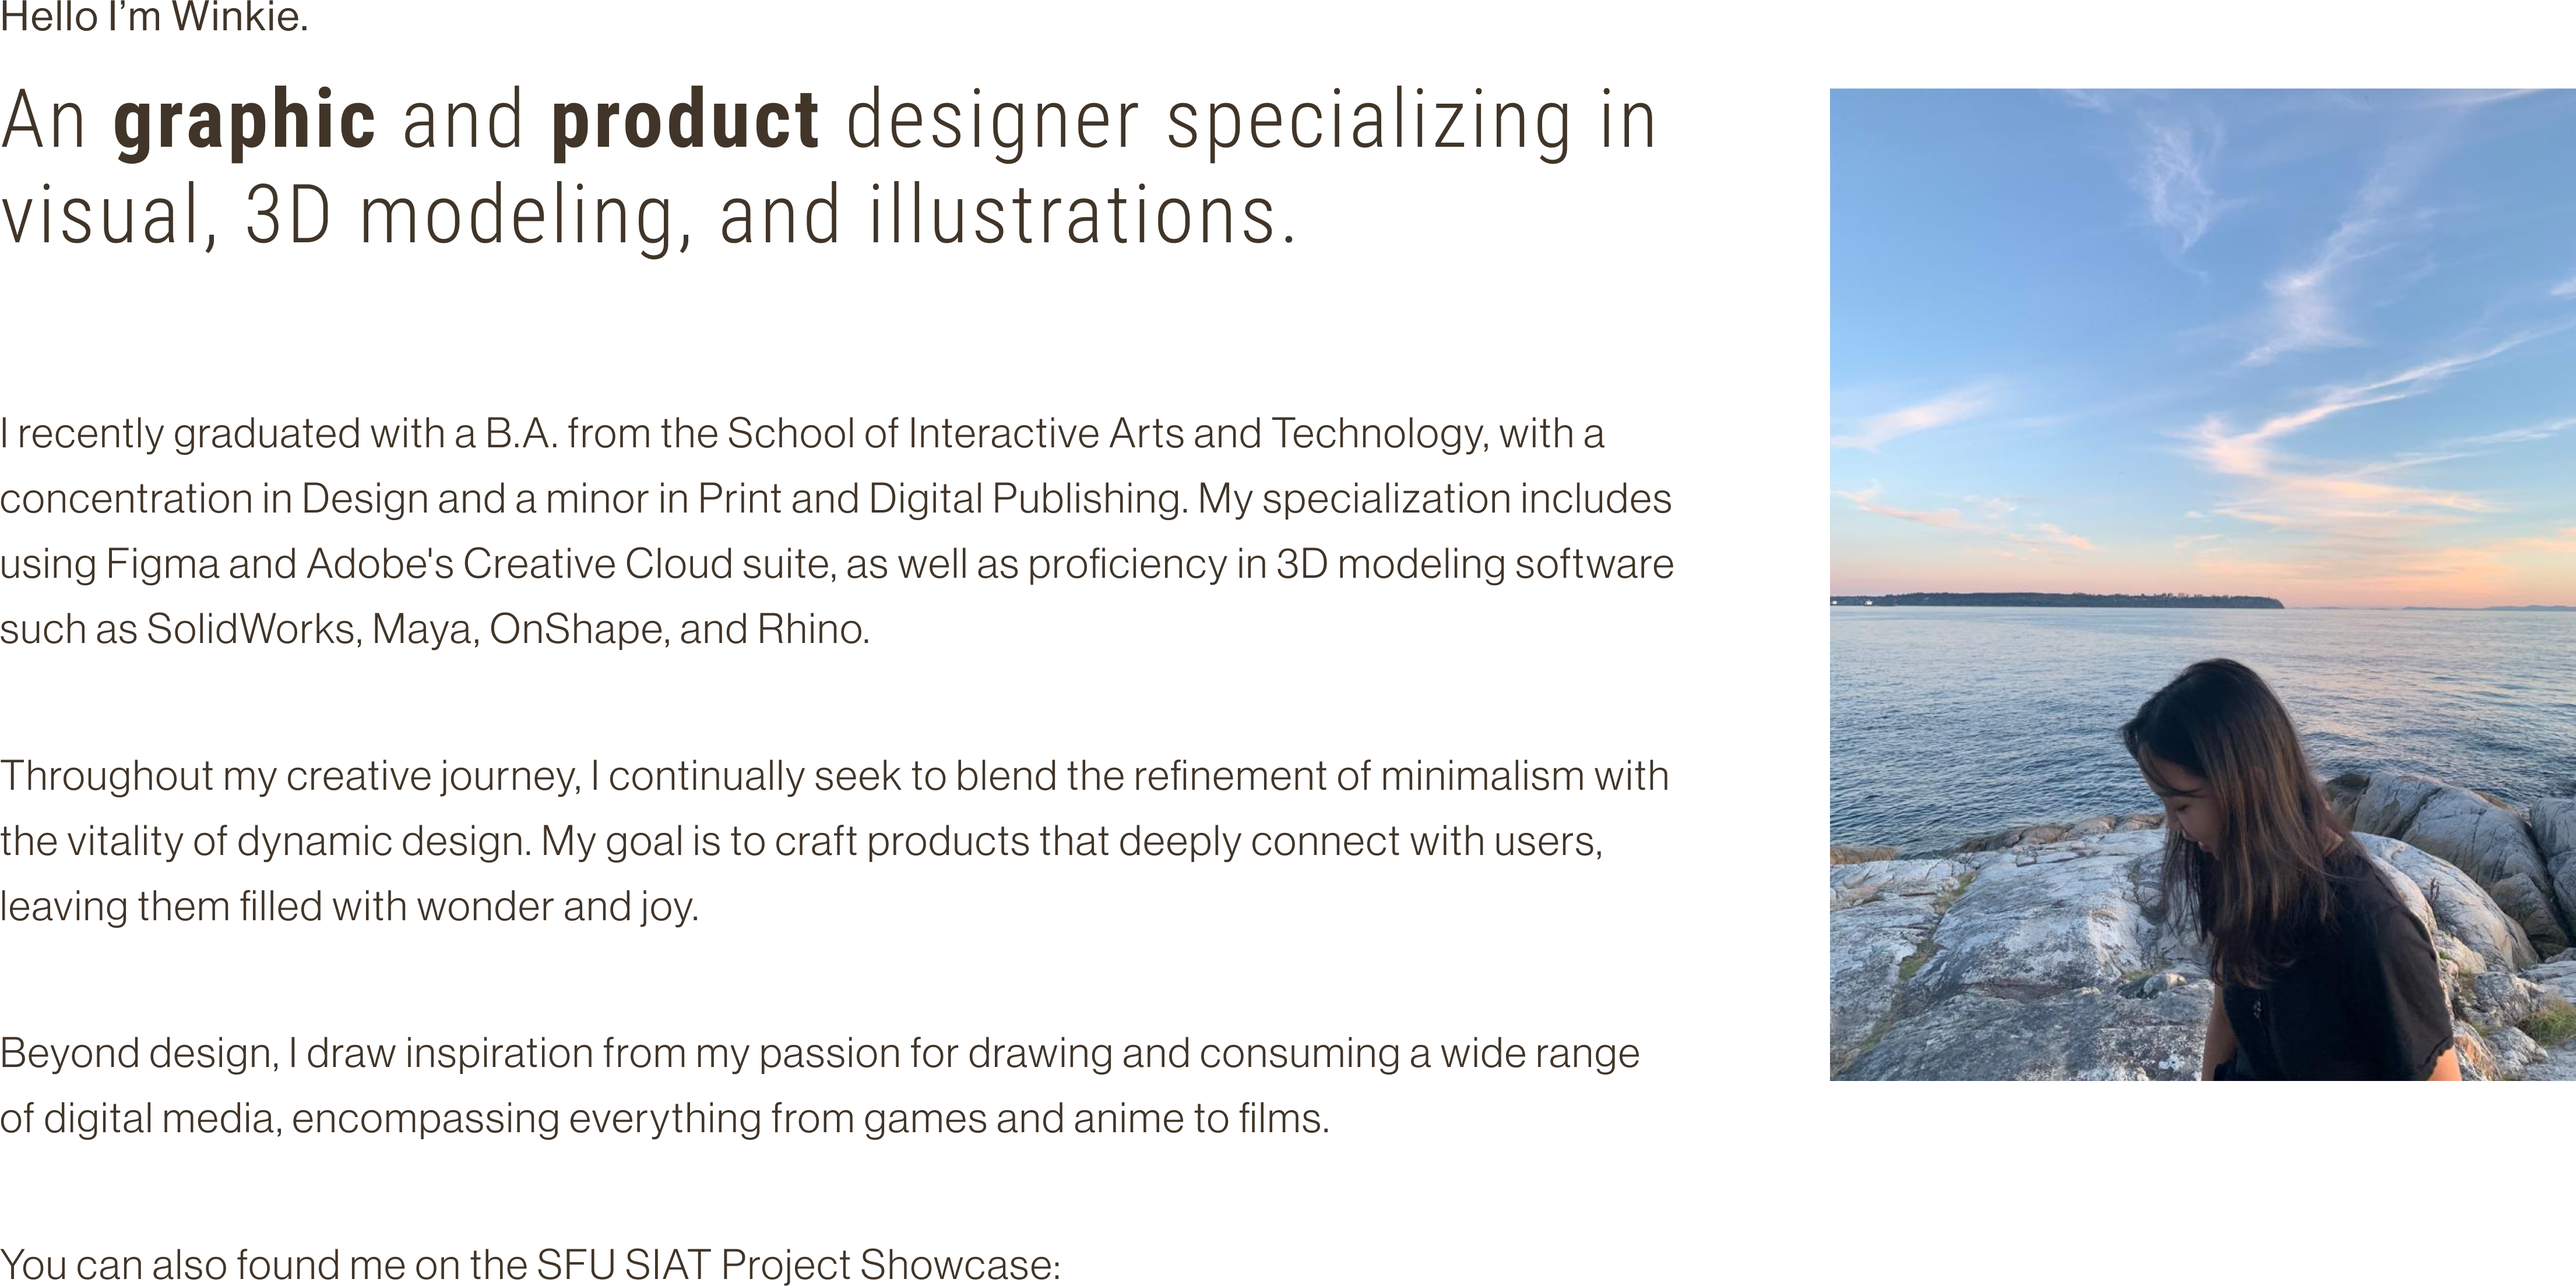
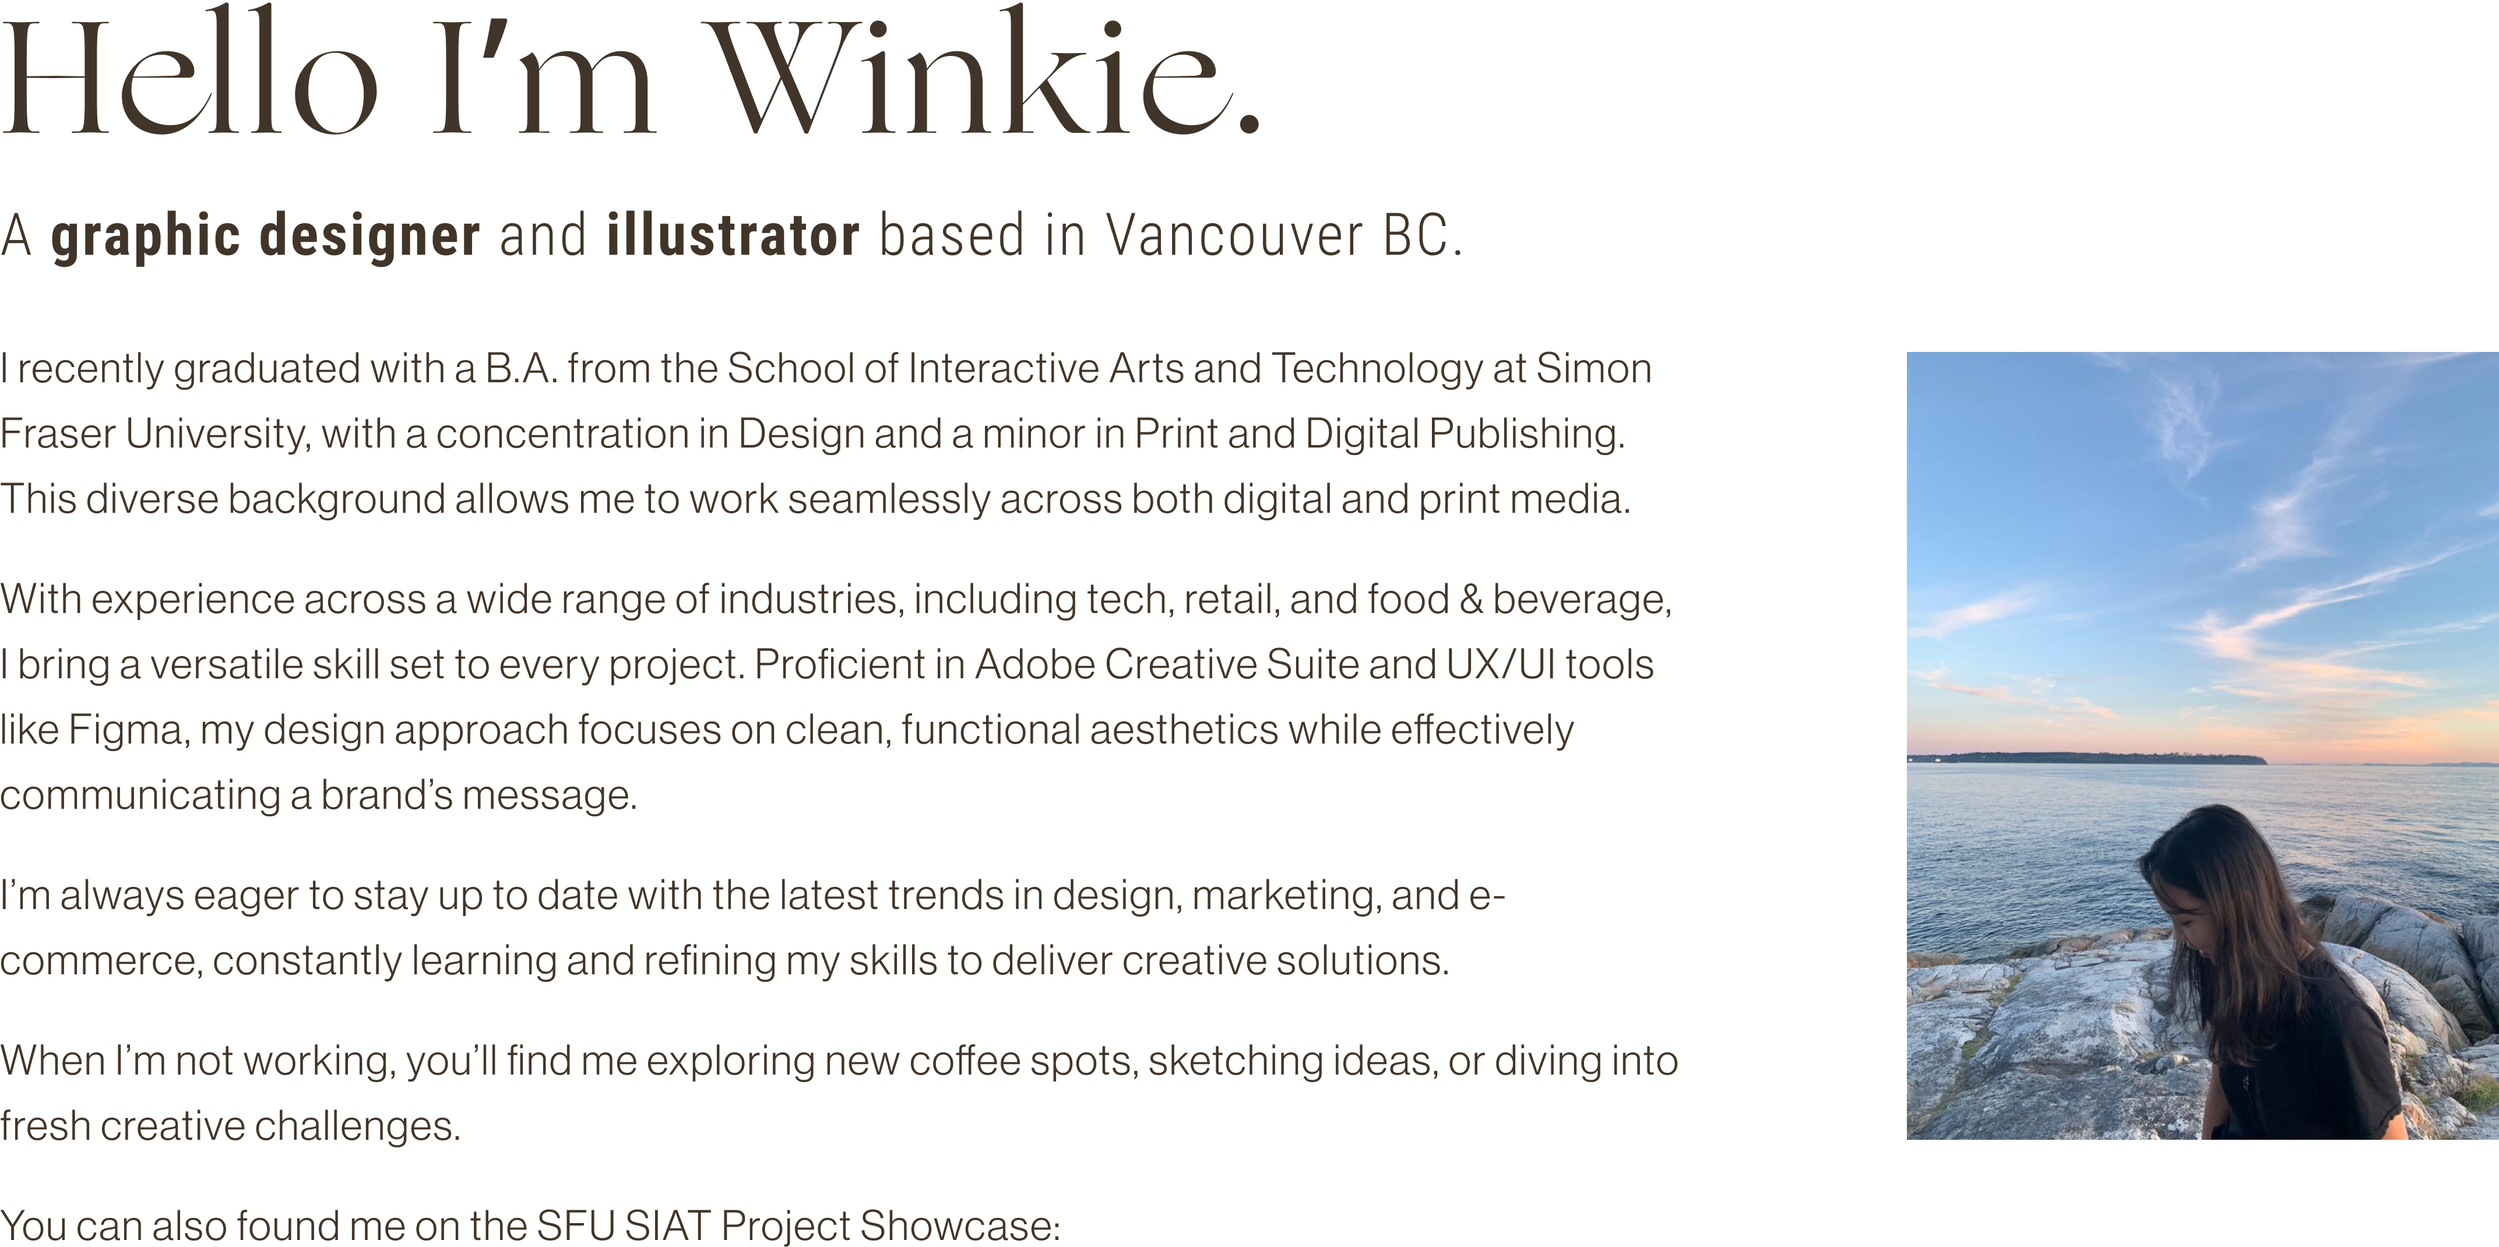
about update

diff --git a/bio.html b/bio.html
@@ -44,14 +44,20 @@
     <img src="img/back-to-top.png" alt="back-to-top" onclick="topFunction()" id="myBtn" title="Go to top">
 
     <div class="body">
-      <div class="project-web">
+      <!-- <div class="project-web"> -->
         <img src="img/bio/bio.png" alt="bio">  
         <a href="https://www.sfu.ca/siat/showcase/spring-2022-project-showcase/projects/iat-334-profit.html">
+          <img src="img/bio/bio-link1.png" alt="bio-link1">
+        </a>
+        <a href="https://www.sfu.ca/siat/showcase/fall-2023-project-showcase/explore-the-projects/iat-438-aquaquest.html">
+          <img src="img/bio/bio-link2.png" alt="bio-link2">
+        </a>
+        <!-- <a href="https://www.sfu.ca/siat/showcase/spring-2022-project-showcase/projects/iat-334-profit.html">
           <img src="img/bio/bio-link1.png" alt="bio-link1">   
           <img src="img/bio/bio-link2.png" alt="bio-link2">   
-        </a>
-      </div>
-      <div class="project-mobile">
+        </a> -->
+      <!-- </div> -->
+      <!-- <div class="project-mobile">
         <img src="img/bio/bio-title-mobile.png" alt="bio=title">  
         <img src="img/bio/bio-text-mobile.png" alt="bio">  
         <a href="https://www.sfu.ca/siat/showcase/fall-2023-project-showcase/explore-the-projects/iat-438-aquaquest.html">
@@ -59,7 +65,7 @@
           <img src="img/bio/bio-link2-mobile.png" alt="bio-link2-mobile">   
         </a>
         <img src="img/bio/bio-image.png" alt="bio-image">  
-      </div> 
+      </div>  -->
     </div>
   </section>
 

diff --git a/css/style.css b/css/style.css
@@ -756,6 +756,10 @@ nav ul li a.nav-link:hover:before, #interactive-elements .in-text-element a:hove
     align-items: center;
 }
 
+#project a img:hover{
+  opacity: 0.5;
+  transition: 0.3s;
+}
 @media screen and (min-width:600px){
   .project-web{
     display: block;
